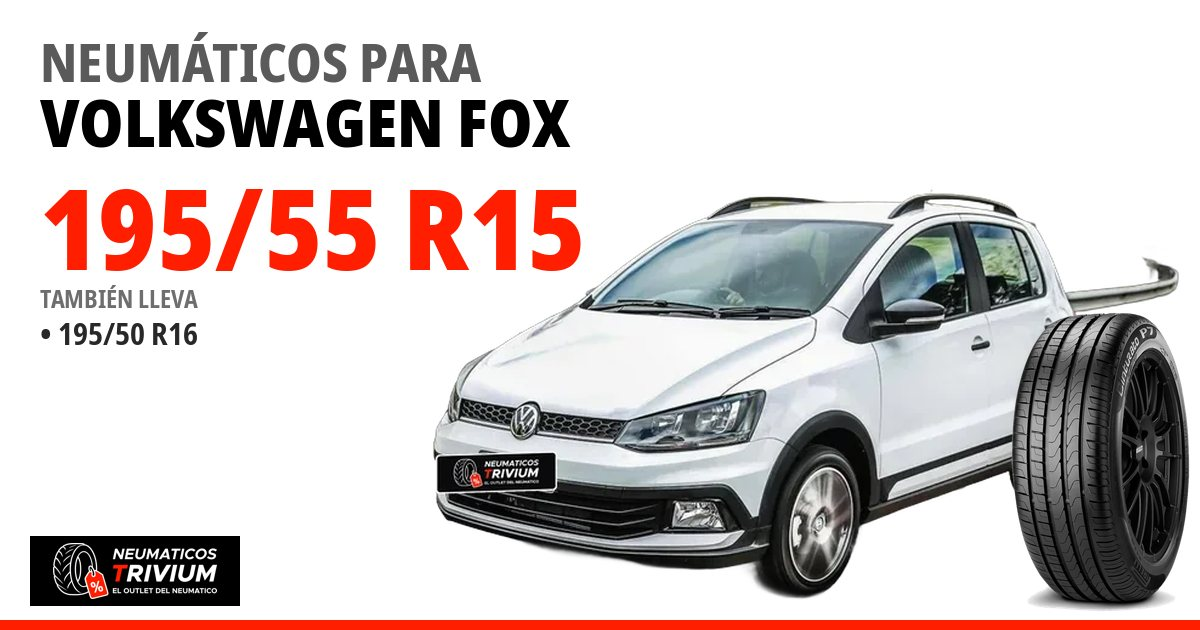
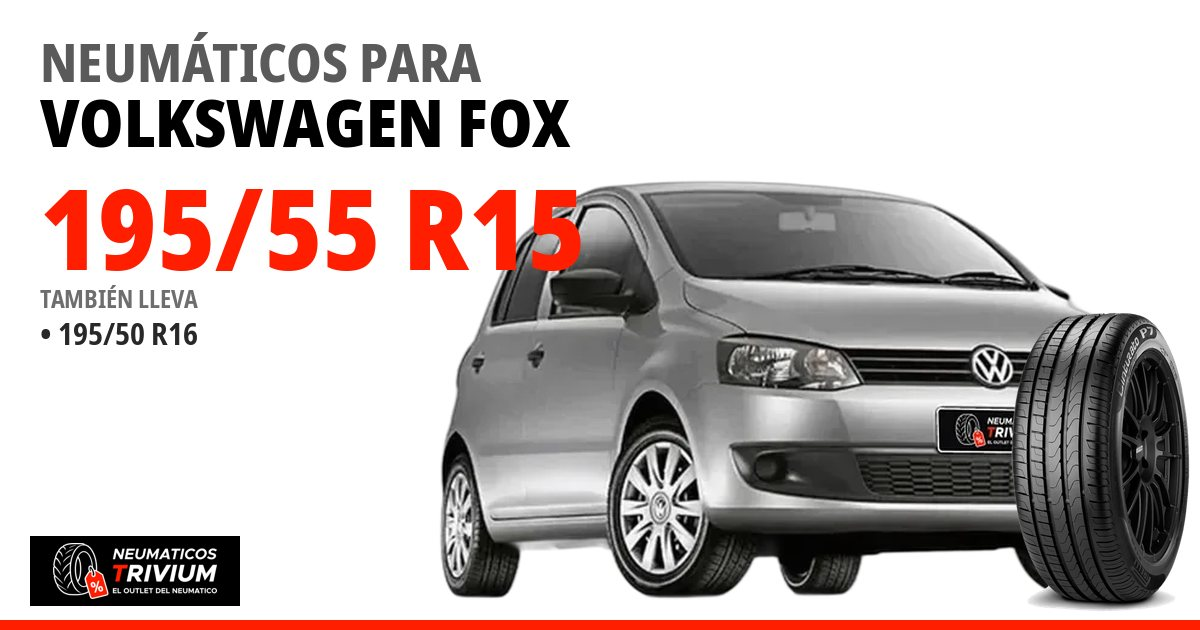
vehículos: fotos de RAV4, Caddy y Seat León con patente Trivium; Fox reemplazado

Changed region(s): [[0.3392, 0.2714, 0.9867, 0.9651]]

diff --git a/src/lib/vehicle-photos.ts b/src/lib/vehicle-photos.ts
@@ -188,6 +188,7 @@ export const VEHICLE_PHOTOS = new Set([
   "renault-symbol",
   "renault-trafic",
   "renault-twingo",
+  "seat-leon",
   "shineray-t30",
   "shineray-t32",
   "subaru-crosstrek",
@@ -204,11 +205,13 @@ export const VEHICLE_PHOTOS = new Set([
   "toyota-hilux-sw4",
   "toyota-land-cruiser",
   "toyota-prius",
+  "toyota-rav4",
   "toyota-sw4",
   "toyota-yaris",
   "toyota-yaris-cross",
   "volkswagen-amarok",
   "volkswagen-bora",
+  "volkswagen-caddy",
   "volkswagen-crossfox",
   "volkswagen-fox",
   "volkswagen-gol",
